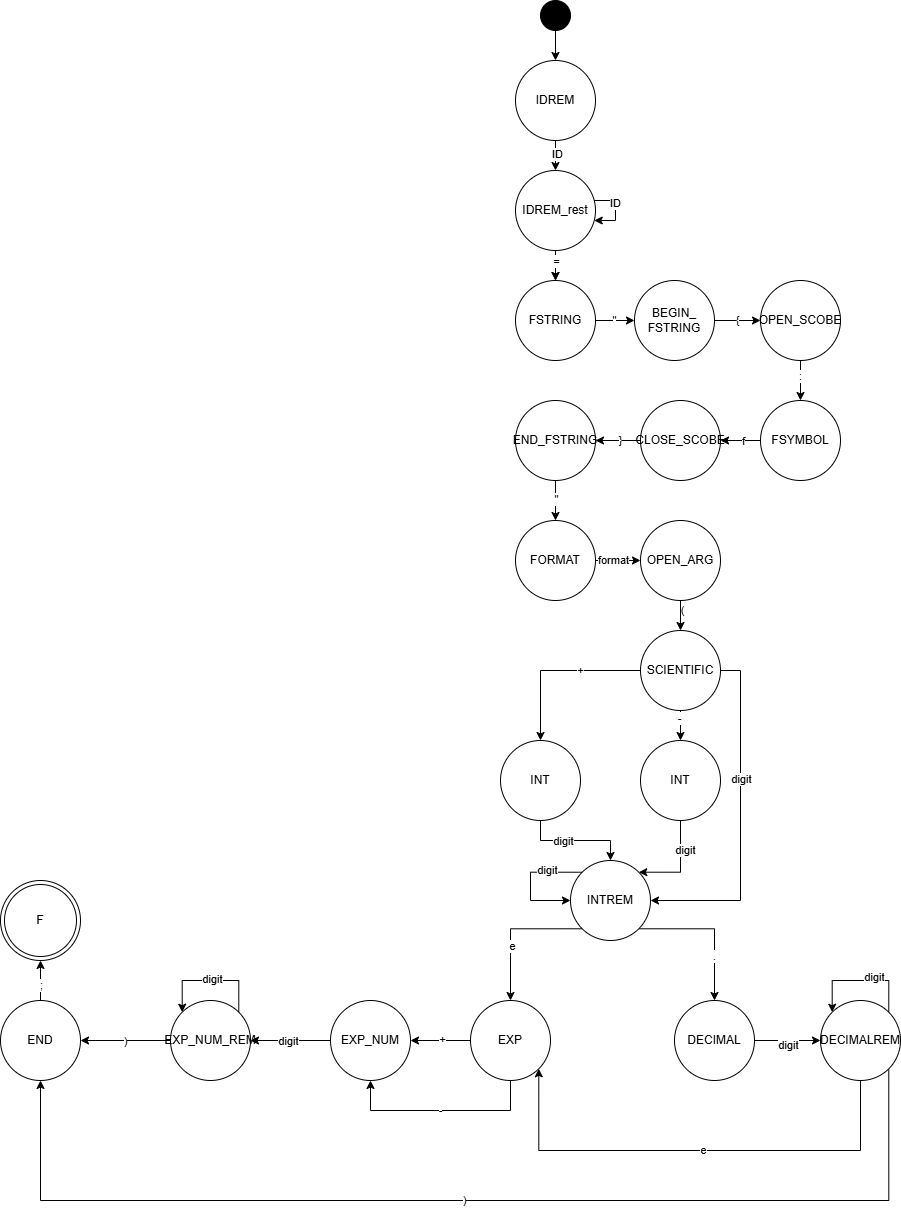
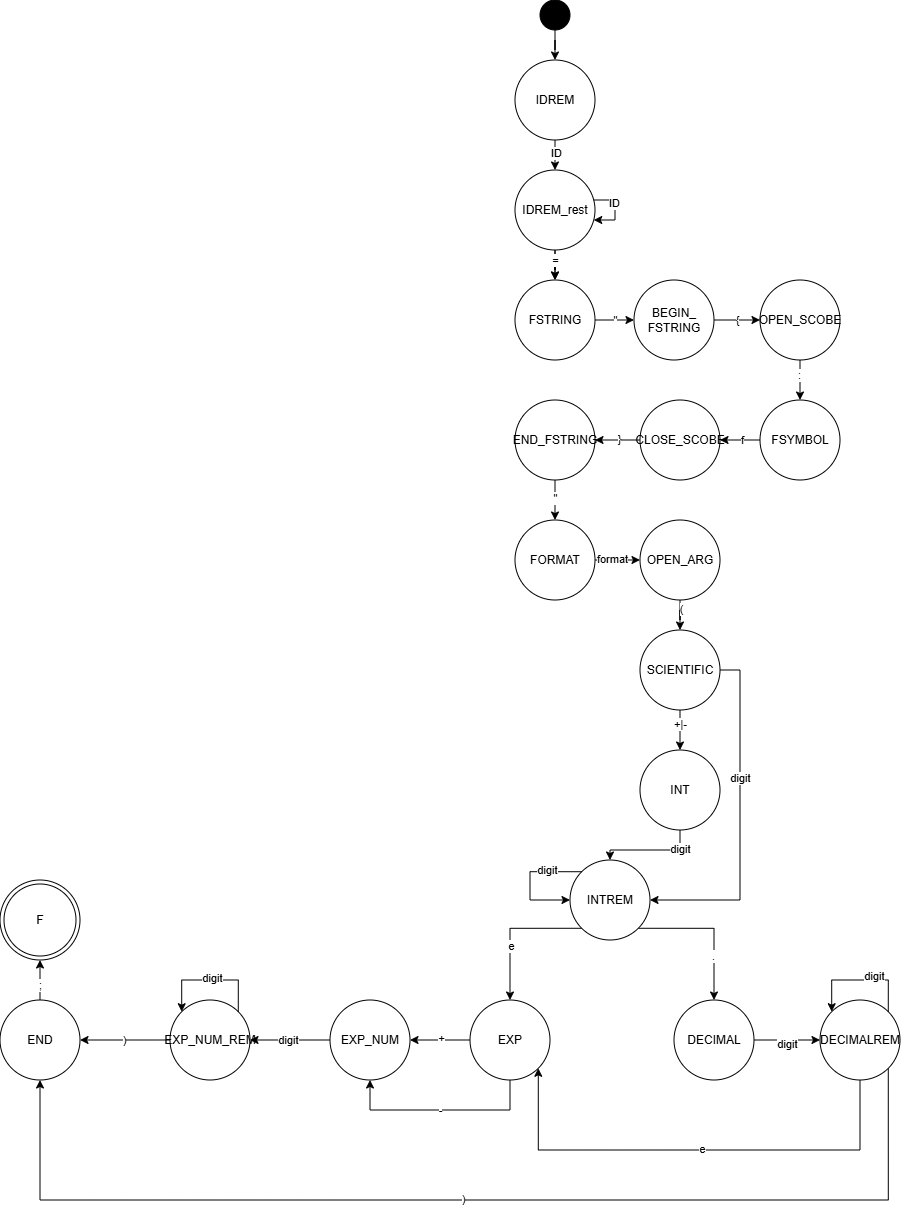
бож...

diff --git a/README.md b/README.md
@@ -194,7 +194,7 @@ digit -> '1'|'2'|'3'|'4'|'5'|'6'|'7'|'8'|'9'|'0'
 
 ### Схема конечного автомата
 
-![Конечный автомат](screenshots/ГрафАвтоматаЛР3.png)
+![Граф конечного автомата](screenshots/ГрафАвтоматаЛР3финал.png)
 
 *Рисунок 1 - Схема конечного автомата*
 
